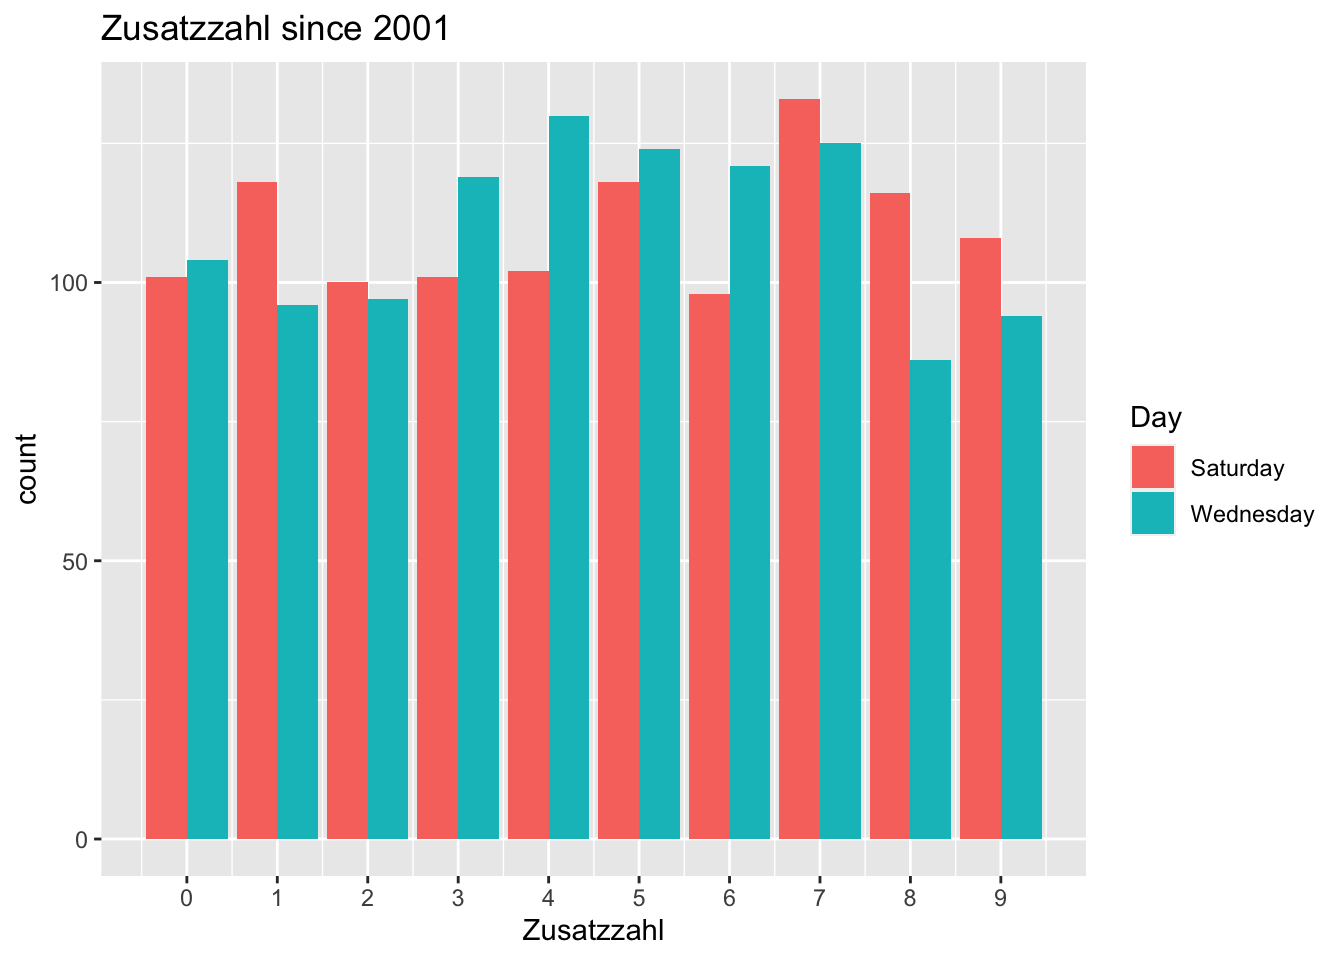
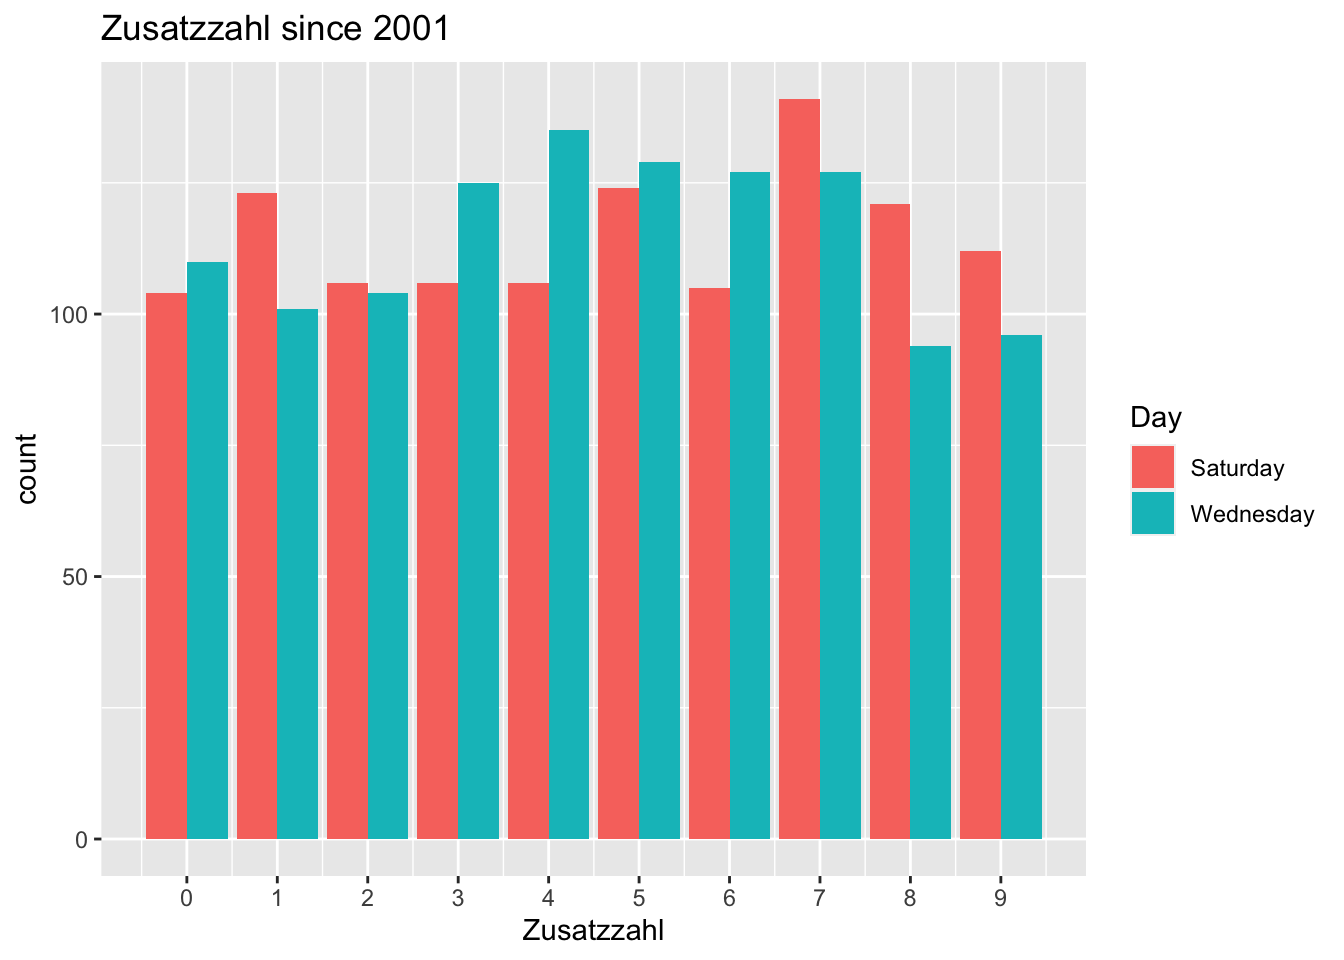
Add year 2022 analysis in README

diff --git a/README.md b/README.md
@@ -1,7 +1,7 @@
 
 <!-- README.md is generated from README.Rmd. Please edit that file -->
 
-# API for the lotto numbers of the german lottery (1955-2022)
+# API for the lotto numbers of the german lottery (1955-2023)
 
 [![Project Status: Active – The project has reached a stable, usable
 state and is being actively
@@ -51,11 +51,11 @@ lottonumbers_count %>%
 ## # A tibble: 5 × 2
 ##   value count
 ##   <int> <int>
-## 1     6   623
-## 2    49   600
-## 3    31   593
-## 4    11   590
-## 5    32   590
+## 1     6   633
+## 2    49   621
+## 3    32   608
+## 4    11   605
+## 5    31   600
 ```
 
 Now we want to summarise all numbers from 1-49 and their appearance.
@@ -83,10 +83,12 @@ superzahl <- data %>%
   filter(year >= 2001) %>% 
   group_by(value, Day) %>% 
   summarise(count = n())
-## `summarise()` has grouped output by 'value'. You can override using the `.groups` argument.
+## `summarise()` has grouped output by 'value'. You can override using the
+## `.groups` argument.
 ```
 
 ``` r
+
 ggplot(superzahl, aes(value, count, fill = Day)) +
   geom_bar(stat = "identity", position = "dodge") +
   scale_x_continuous(breaks = c(0:9)) +
@@ -95,14 +97,14 @@ ggplot(superzahl, aes(value, count, fill = Day)) +
 
 <img src="README_figs/README-unnamed-chunk-5-1.png" width="672" style="display: block; margin: auto;" />
 
-What were the numbers most chosen in 2021?
+What were the numbers most chosen in 2022?
 
 ``` r
 data %>% 
   filter(variable == "Lottozahl") %>% 
   mutate(date = dmy(date),
          year = year(date)) %>% 
-  filter(year == 2021) %>% 
+  filter(year == 2022) %>% 
   group_by(value) %>% 
   summarise(count = n()) %>% 
    arrange(desc(count)) %>% 
@@ -111,11 +113,11 @@ data %>%
 ## # A tibble: 5 × 2
 ##   value count
 ##   <int> <int>
-## 1     1    22
-## 2    15    22
-## 3     5    20
-## 4    10    20
-## 5    46    18
+## 1    49    21
+## 2     1    20
+## 3    16    20
+## 4     2    18
+## 5    32    18
 ```
 
 ### Python
@@ -133,10 +135,10 @@ res = data[data.variable == "Lottozahl"].groupby("value")["value"].count().sort_
 
 print(res.head(5))
 ## value
-## 6     623
-## 49    600
-## 31    593
-## 11    590
-## 32    590
+## 6     633
+## 49    621
+## 32    608
+## 11    605
+## 31    600
 ## Name: value, dtype: int64
 ```
